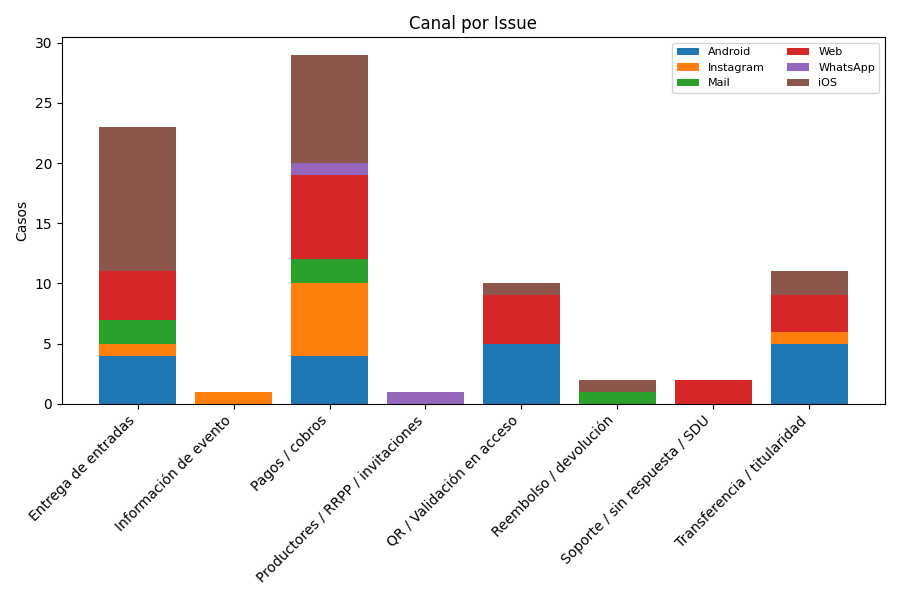
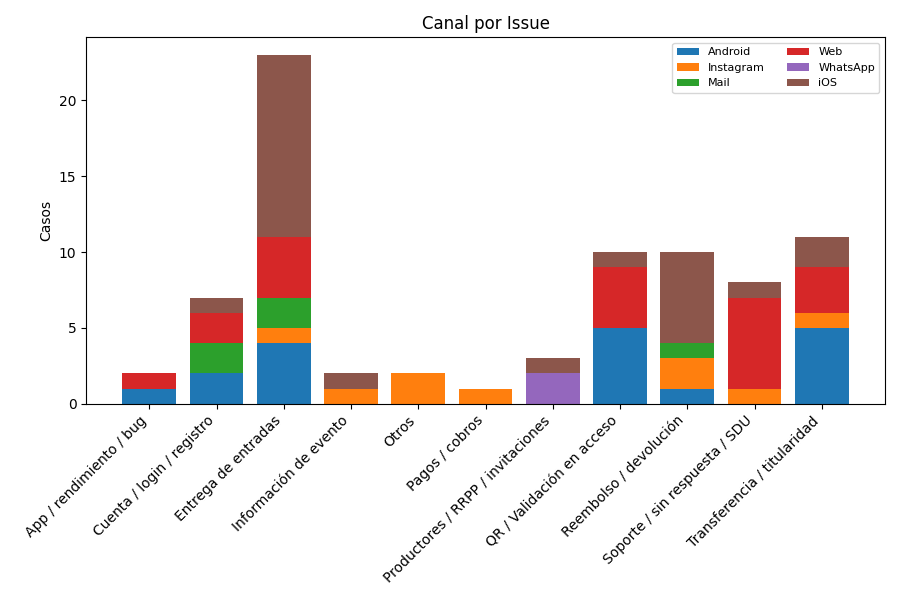
Report 2025-08-19: PNG charts

diff --git a/venti_weekly_report.py b/venti_weekly_report.py
@@ -1,6 +1,8 @@
 # -*- coding: utf-8 -*-
 """
 Venti – Insight IA: Reporte semanal Intercom (Notion narrativo + Gemini API)
+Parcheado: logs de Gemini, smoke test, normalización de acentos, KPIs opcionales,
+regex robustas y sanitización de links.
 """
 
 import os
@@ -13,6 +15,7 @@ from datetime import date
 import requests
 import pandas as pd
 import numpy as np
+import unicodedata
 
 # Matplotlib headless
 import matplotlib
@@ -28,6 +31,14 @@ def strip_emojis(s: str) -> str:
         return EMOJI_RX.sub("", s or "")
     except Exception:
         return s or ""
+
+def _norm_txt(s: str) -> str:
+    """Lower + quita tildes/diacríticos + trim."""
+    if s is None:
+        return ""
+    s = str(s).strip().lower()
+    s = "".join(c for c in unicodedata.normalize("NFKD", s) if not unicodedata.combining(c))
+    return s
 
 def load_csv_robusto(csv_path: str) -> pd.DataFrame:
     encodings = ["utf-8-sig", "utf-8", "cp1252", "latin-1", "utf-16", "utf-16-le", "utf-16-be"]
@@ -96,6 +107,8 @@ def normalize_columns(df: pd.DataFrame) -> pd.DataFrame:
             df[canon] = ""
     return df
 
+# ===================== Taxonomías =====================
+
 VALID_TEMAS = {
     "eventos - user ticket","eventos - user productora","lead comercial","anuncios & notificaciones",
     "duplicado","desvío a intercom","sin respuesta",
@@ -113,20 +126,20 @@ VALID_MOTIVOS = {
 VALID_SUBMOTIVOS = set()
 
 def map_to_catalog(value, catalog):
-    try:
-        if value is None or (isinstance(value, float) and pd.isna(value)):
-            return "", False
-        v = str(value).strip().lower()
-    except Exception:
-        v = ""
+    v = _norm_txt(value)
     if not v or v in ("nan","none"):
         return "", False
-    if v in catalog:
-        return v, True
-    for item in catalog:
-        if v in item or item in v:
-            return item, True
-    return v, False
+    # catálogo normalizado → original
+    norm_catalog = {_norm_txt(x): x for x in catalog}
+    if v in norm_catalog:
+        return norm_catalog[v], True
+    # contains-match tolerante
+    for raw in catalog:
+        nraw = _norm_txt(raw)
+        if v in nraw or nraw in v:
+            return raw, True
+    # devolver como vino si no matchea
+    return value if isinstance(value, str) else str(value), False
 
 def enforce_taxonomy(df: pd.DataFrame) -> pd.DataFrame:
     df["tema_norm"], df["tema_ok"] = zip(*df["tema"].map(lambda x: map_to_catalog(x, VALID_TEMAS)))
@@ -142,27 +155,30 @@ def enforce_taxonomy(df: pd.DataFrame) -> pd.DataFrame:
 def build_text_base(row: pd.Series) -> str:
     parts = []
     for col in ["resumen_ia","insight_ia","palabras_clave","tema_norm","motivo_norm","submotivo_norm","area"]:
-        val = str(row.get(col,"") or "").strip()
-        if val and val.lower() != "nan":
+        val = _norm_txt(row.get(col,""))
+        if val and val != "nan":
             parts.append(val)
-    return " | ".join(parts).lower()
+    return " | ".join(parts)
+
+# ===================== Heurísticas de Issues =====================
 
 RULES = [
-    ("Entrega de entradas", r"(no\s*recib[ií]|reenv(i|í)a|link\s*de\s*entrada|entrada(s)?\s*(no)?\s*llega|ticket\s*no\s|no\s*me\s*lleg[oó])"),
+    ("Entrega de entradas", r"(no\s*recibi|reenvio|link\s*de\s*entrada|entrada(s)?\s*(no)?\s*llega|ticket\s*no\s|no\s*me\s*llego)"),
     ("Transferencia / titularidad", r"(transferenc|transferir|cambio\s*de\s*titular|modificar\s*(nombre|titular)|pasar\s*entrada)"),
-    ("QR / Validación en acceso", r"(qr|validaci[oó]n|control\s*de\s*acceso|escaneo|lector|validador)"),
-    ("Pagos / cobros", r"(pago|pagos|cobro|cobrar|rechazad|tarjeta|mercadopago|mp|cuotas)"),
-    ("Reembolso / devolución", r"(reembolso|devoluci[oó]n|refund|chargeback)"),
-    ("Cuenta / login / registro", r"(cuenta|logue|login|registr|contrasen(?:a|ñ)|clave|verificaci[oó]n\s*de\s*mail|correo\s*inv[aá]lido)"),
-    ("App / rendimiento / bug", r"(app|aplicaci[oó]n|crash|se\s*cierra|no\s*funciona|bug|error\s*(tecnico|500|404))"),
-    ("Soporte / sin respuesta / SDU", r"(sin\s*respuesta|derivaci[oó]n\s*al\s*sdu|sdu|jotform|demora|espera)"),
-    ("Información de evento", r"(consulta\s*por\s*evento|horario|ubicaci[oó]n|vip|mapa|line\s*up|capacidad|ingreso|puerta)"),
-    ("Productores / RRPP / invitaciones", r"(invitaci[oó]n|rrpp|productor|productora|acceso\s*productor|carga\s*de\s*evento|validadores|operativo)"),
+    ("QR / Validación en acceso", r"(qr|validacion|control\s*de\s*acceso|escaneo|lector|validador)"),
+    ("Pagos / cobros", r"(pago|pagos|cobro|cobrar|rechazad|tarjeta|mercadopago|\bmp\b|cuotas)"),
+    ("Reembolso / devolución", r"(reembolso|devolucion|refund|chargeback)"),
+    ("Cuenta / login / registro", r"(cuenta|logue|login|registr|contrasena|clave|verificacion\s*de\s*mail|correo\s*invalido)"),
+    ("App / rendimiento / bug", r"(app|aplicacion|crash|se\s*cierra|no\s*funciona|bug|error\s*(tecnico|500|404))"),
+    ("Soporte / sin respuesta / SDU", r"(sin\s*respuesta|derivacion\s*al\s*sdu|\bsdu\b|jotform|demora|espera)"),
+    ("Información de evento", r"(consulta\s*por\s*evento|horario|ubicacion|vip|mapa|line\s*up|capacidad|ingreso|puerta)"),
+    ("Productores / RRPP / invitaciones", r"(invitacion|\brrpp\b|productor|productora|acceso\s*productor|carga\s*de\s*evento|validadores|operativo)"),
 ]
 
 def assign_issue_group(text: str) -> str:
+    t = _norm_txt(text)
     for label, pattern in RULES:
-        if re.search(pattern, text):
+        if re.search(pattern, t):
             return label
     return "Otros"
 
@@ -185,7 +201,7 @@ def compute_flags(row: pd.Series) -> pd.Series:
     urg = _safe_lower(row.get("urgencia",""))
     canal = _safe_lower(row.get("canal",""))
     risk = "LOW"
-    if any(k in txt for k in ["estafa","fraude","no puedo entrar","no puedo ingresar","rechazad"]):
+    if any(k in _norm_txt(txt) for k in ["estafa","fraude","no puedo entrar","no puedo ingresar","rechazad"]):
         risk = "HIGH"
     elif urg in ("alta","high"):
         risk = "HIGH"
@@ -311,13 +327,16 @@ def compare_with_prev(issues_df: pd.DataFrame, hist_dir="./hist") -> pd.DataFram
 
 # ===================== Gemini (API REST) =====================
 
-def gemini_generate_text(prompt: str,
-                         api_key: str | None = None,
-                         model: str = "gemini-1.5-flash",
-                         temperature: float = 0.3,
-                         max_output_tokens: int = 256) -> str:
-    api_key = api_key or os.getenv("AIzaSyBVCbzd3mAIu9k1O4TU5x9ij9nOnMSaUlE") or os.getenv("AIzaSyBVCbzd3mAIu9k1O4TU5x9ij9nOnMSaUlE")
+def gemini_generate_text(
+    prompt: str,
+    api_key: str | None = None,
+    model: str = "gemini-1.5-flash",
+    temperature: float = 0.3,
+    max_output_tokens: int = 256
+) -> str:
+    api_key = api_key or os.getenv("GOOGLE_API_KEY") or os.getenv("GEMINI_API_KEY")
     if not api_key:
+        print("⚠ GEMINI_API_KEY/GOOGLE_API_KEY no seteado. Saltando generación de insight.")
         return ""
     url = f"https://generativelanguage.googleapis.com/v1beta/models/{model}:generateContent?key={api_key}"
     headers = {"Content-Type": "application/json"}
@@ -328,14 +347,30 @@ def gemini_generate_text(prompt: str,
     try:
         r = requests.post(url, headers=headers, data=json.dumps(data), timeout=40)
         if not r.ok:
+            print(f"❌ Gemini HTTP {r.status_code}. Body: {r.text[:500]}")
             return ""
         out = r.json()
         cand = (out.get("candidates") or [{}])[0]
         parts = ((cand.get("content") or {}).get("parts") or [{}])
         text = parts[0].get("text", "").strip()
         return text
-    except Exception:
+    except requests.Timeout:
+        print("⏱ Timeout llamando a Gemini.")
         return ""
+    except Exception as e:
+        print(f"❌ Excepción llamando a Gemini: {e}")
+        return ""
+
+def _gemini_smoke_test(api_key: str | None, model: str) -> None:
+    """Test corto para evidenciar si Gemini responde antes de generar todo."""
+    if not (api_key or os.getenv("GOOGLE_API_KEY") or os.getenv("GEMINI_API_KEY")):
+        print("ℹ Gemini no configurado (sin API key). Insights deshabilitados.")
+        return
+    txt = gemini_generate_text("Ping: responde 'OK' si recibiste este mensaje.", api_key=api_key, model=model, max_output_tokens=8)
+    if txt:
+        print(f"✅ Gemini listo. Respuesta: {txt[:50]}")
+    else:
+        print("⚠ Gemini no respondió. Verifica key, cuotas o permisos.")
 
 def ai_insight_for_chart(chart_name: str, stats_obj, api_key: str | None = None, model: str = "gemini-1.5-flash") -> str:
     if isinstance(stats_obj, pd.DataFrame):
@@ -467,9 +502,7 @@ def _clean_url(u: str) -> str | None:
     u = u.strip().replace("\n", " ").replace("\r", " ")
     if not u:
         return None
-    # primer token, sin envoltorios
     u = u.split()[0].strip('\'"()[]')
-    # quitar caracteres de control / pipes
     u = ''.join(ch for ch in u if 31 < ord(ch) < 127 and ch not in {'|'})
     if not (u.lower().startswith("http://") or u.lower().startswith("https://")):
         return None
@@ -533,7 +566,6 @@ def build_issues_table_block(resumen_df: pd.DataFrame) -> dict:
                 urls.append(u); seen.add(u)
             if len(urls) >= 3:
                 break
-        # Rich text de ejemplos
         if urls:
             examples_rt = []
             for i, u in enumerate(urls, start=1):
@@ -641,7 +673,6 @@ def _sanitize_links_in_blocks(blocks: list[dict]) -> list[dict]:
             if img.get("type") == "external" and "external" in img and "url" in img["external"]:
                 safe = _clean_url(img["external"]["url"])
                 if not safe:
-                    # invalid image URL → convertimos a párrafo plano con el caption (evita 400)
                     caption = ""
                     cap_rt = img.get("caption") or []
                     if cap_rt and cap_rt[0].get("type") == "text":
@@ -650,7 +681,6 @@ def _sanitize_links_in_blocks(blocks: list[dict]) -> list[dict]:
                     b.update(_para(caption or ""))
                 else:
                     img["external"]["url"] = safe
-            # también saneamos el caption
             cap = img.get("caption", [])
             if cap:
                 b["image"]["caption"] = strip_or_fix_rt(cap)
@@ -658,6 +688,13 @@ def _sanitize_links_in_blocks(blocks: list[dict]) -> list[dict]:
     return blks
 
 # ===================== Página Notion =====================
+
+def _kpi_val(df, col):
+    if col in df.columns and len(df):
+        v = str(df[col].iloc[0]).strip()
+        if v and v.lower() not in ("nan","none","null",""):
+            return df[col].iloc[0]
+    return None
 
 def notion_create_page(parent_page_id: str,
                        token: str,
@@ -678,23 +715,32 @@ def notion_create_page(parent_page_id: str,
     blocks.append(_para(f"💬 Conversaciones procesadas: {meta.get('total','')}"))
     blocks.append(_para("Durante el periodo analizado se registraron conversaciones en Intercom, procesadas por IA para identificar patrones, problemas recurrentes y oportunidades de mejora."))
 
-    # KPIs a la vista
+    # KPIs a la vista (solo si hay valor)
     blocks.append(_h2("KPIs a la vista"))
-    kpis = {
-        "Tickets resueltos": df["tickets_resueltos"].iloc[0] if "tickets_resueltos" in df.columns and len(df) else "—",
-        "% 1ra respuesta": df["tasa_1ra_respuesta"].iloc[0] if "tasa_1ra_respuesta" in df.columns and len(df) else "—",
-        "Tiempo medio de resolución": df["ttr_horas"].iloc[0] if "ttr_horas" in df.columns and len(df) else "—",
-        "Satisfacción (CSAT)": df["csat"].iloc[0] if "csat" in df.columns and len(df) else "—",
-    }
-    for k, v in kpis.items():
-        blocks.append(_bullet(f"{k}: {v}"))
+    kpi_items = [
+        ("Tickets resueltos", _kpi_val(df, "tickets_resueltos")),
+        ("% 1ra respuesta", _kpi_val(df, "tasa_1ra_respuesta")),
+        ("Tiempo medio de resolución", _kpi_val(df, "ttr_horas")),
+        ("Satisfacción (CSAT)", _kpi_val(df, "csat")),
+    ]
+    any_kpi = False
+    for k, v in kpi_items:
+        if v is not None:
+            any_kpi = True
+            blocks.append(_bullet(f"{k}: {v}"))
+    if not any_kpi:
+        blocks.append(_para("—"))
 
     # Top 3 issues
-    top3 = df["issue_group"].value_counts().head(3)
     blocks.append(_h2("Top 3 issues"))
-    for issue, casos in top3.items():
-        pct = f"{(casos/len(df)*100):.0f}%"
-        blocks.append(_bullet(f"{issue} → {casos} casos ({pct})"))
+    total_len = max(len(df), 1)
+    top3 = df["issue_group"].value_counts().head(3)
+    if len(top3) == 0:
+        blocks.append(_para("—"))
+    else:
+        for issue, casos in top3.items():
+            pct = f"{(casos/total_len*100):.0f}%"
+            blocks.append(_bullet(f"{issue} → {casos} casos ({pct})"))
     if insights.get("top_issues"):
         blocks.append(_callout(insights["top_issues"], icon="💡"))
 
@@ -769,7 +815,6 @@ def notion_create_page(parent_page_id: str,
                                 if tkn.get("type") == "text" and tkn.get("text", {}).get("link"):
                                     tkn["text"]["link"] = None
                 elif t == "image":
-                    # dejamos imágenes (ya sanitizadas). Quitamos links en caption si hubiese.
                     cap = b.get("image", {}).get("caption", [])
                     for tkn in cap:
                         if tkn.get("type") == "text" and tkn.get("text", {}).get("link"):
@@ -806,6 +851,9 @@ def run(csv_path: str,
         gemini_model: str = "gemini-1.5-flash"):
 
     os.makedirs(out_dir, exist_ok=True)
+
+    # Smoke test de Gemini temprano para evidenciar problemas de key/cuotas
+    _gemini_smoke_test(gemini_api_key, gemini_model)
 
     # Lectura + normalización + taxonomías
     df = load_csv_robusto(csv_path)
@@ -899,7 +947,7 @@ def run(csv_path: str,
 
     # Gemini: insights y acciones
     insights = {}
-    if gemini_api_key:
+    if gemini_api_key or os.getenv("GOOGLE_API_KEY") or os.getenv("GEMINI_API_KEY"):
         for name, obj in [
             ("top_issues", top_counts.to_dict()),
             ("urgencia_pie", urg_counts.to_dict()),
@@ -911,9 +959,11 @@ def run(csv_path: str,
             txt = ai_insight_for_chart(name, obj, api_key=gemini_api_key, model=gemini_model)
             if txt:
                 insights[name] = txt
+    else:
+        print("ℹ Insights por Gemini deshabilitados (sin API key).")
 
     acciones_ai = {}
-    if gemini_api_key:
+    if gemini_api_key or os.getenv("GOOGLE_API_KEY") or os.getenv("GEMINI_API_KEY"):
         for _, row in resumen_df.head(5).iterrows():
             issue = str(row.get("issue",""))
             ctx = {
